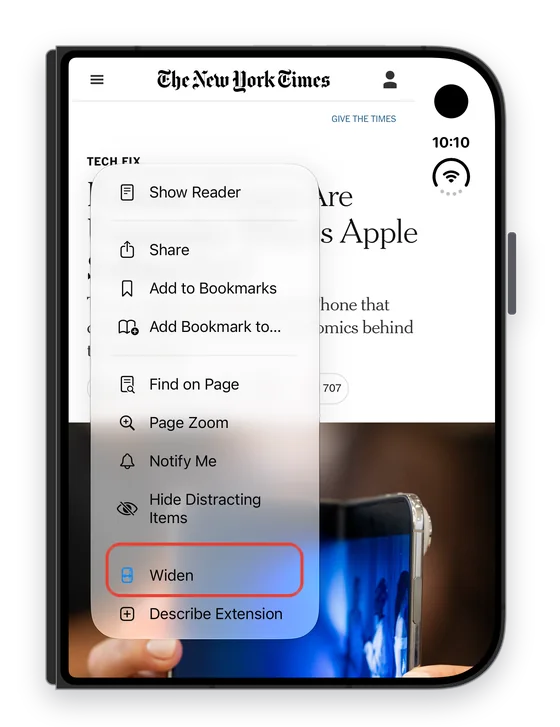
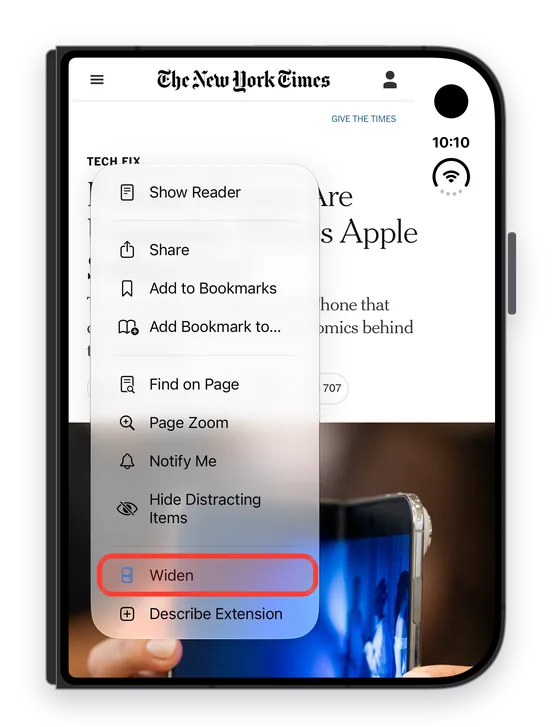
Menu highlight centred on Widen, bolder

Changed region(s): [[0.1518, 0.7263, 0.5768, 0.8473]]

diff --git a/index.html b/index.html
@@ -148,8 +148,8 @@
         <li><h3>In Settings</h3><p>Switch <strong>Allow Extension</strong> on, then set <strong>All Websites</strong> to <strong>Allow</strong>.</p></li>
         <li><h3>In Safari</h3><p>Close your Duo and browse. Every site opens in <strong>Pictures</strong> mode. To change that, or give one site its own setting, tap the menu button at the left of Safari&rsquo;s address bar, then choose <strong>Widen</strong>.</p>
           <div class="howto">
-            <figure><img src="img/menu-button.webp" width="560" height="727" loading="lazy" alt="Safari on the closed Duo with the menu button at the left of the address bar circled"><figcaption>1. Tap the menu button</figcaption></figure>
-            <figure><img src="img/menu-widen.webp" width="560" height="727" loading="lazy" alt="Safari's page menu open, with Widen near the bottom circled"><figcaption>2. Choose <em>Widen</em></figcaption></figure>
+            <figure><img src="img/menu-button.webp?v=2" width="560" height="727" loading="lazy" alt="Safari on the closed Duo with the menu button at the left of the address bar circled"><figcaption>1. Tap the menu button</figcaption></figure>
+            <figure><img src="img/menu-widen.webp?v=2" width="560" height="727" loading="lazy" alt="Safari's page menu open, with Widen near the bottom circled"><figcaption>2. Choose <em>Widen</em></figcaption></figure>
           </div></li>
       </ol>
     </div>
